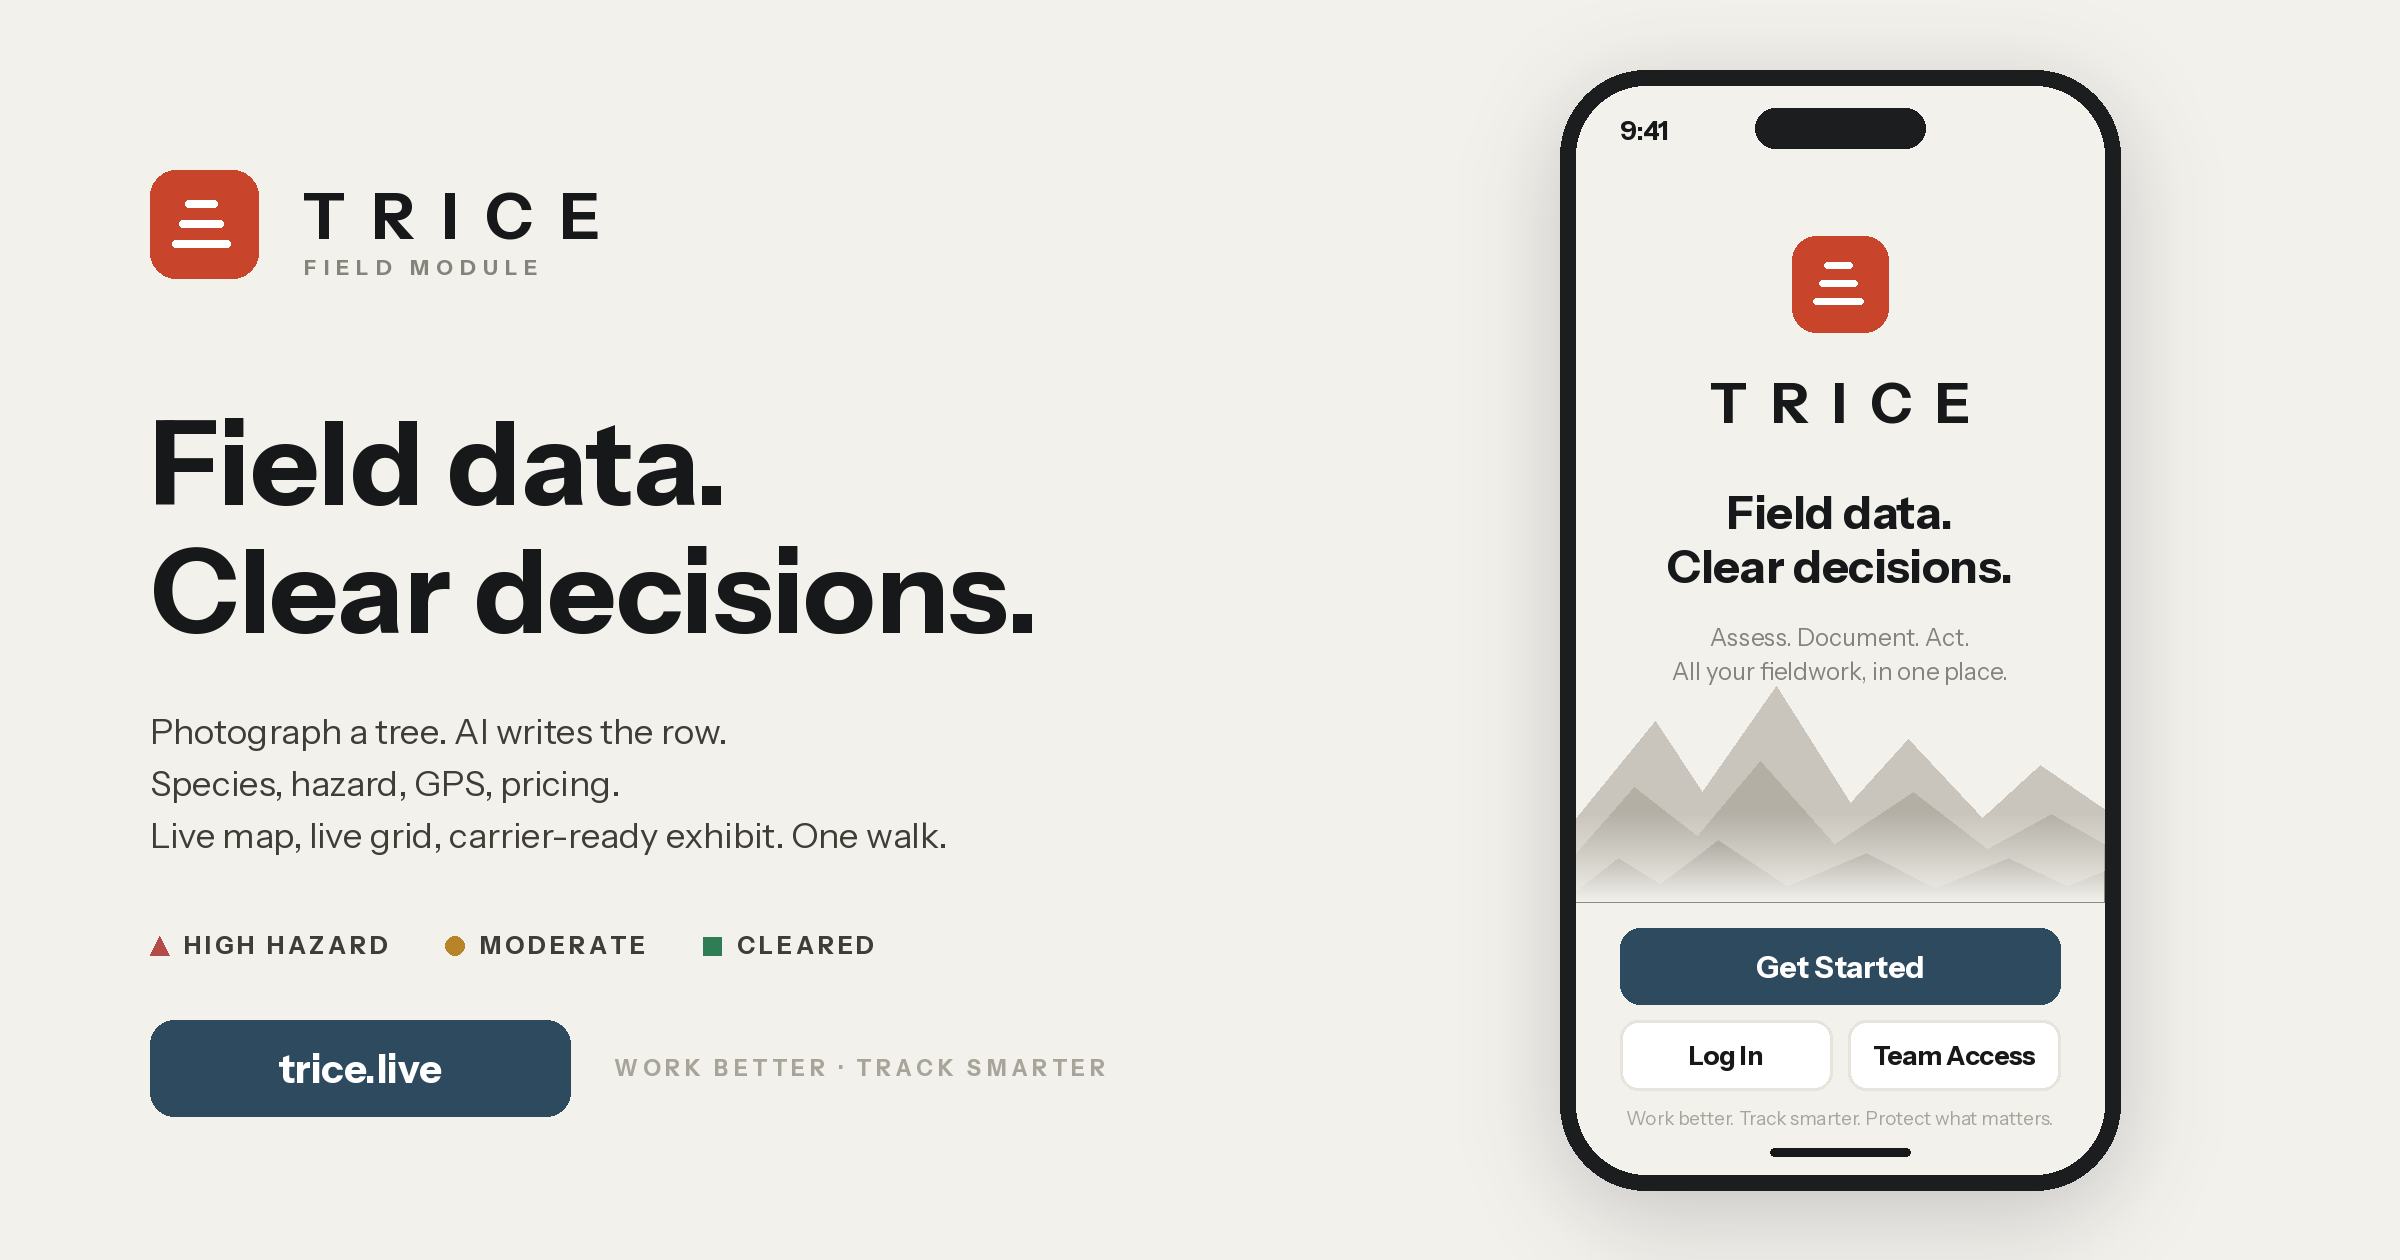
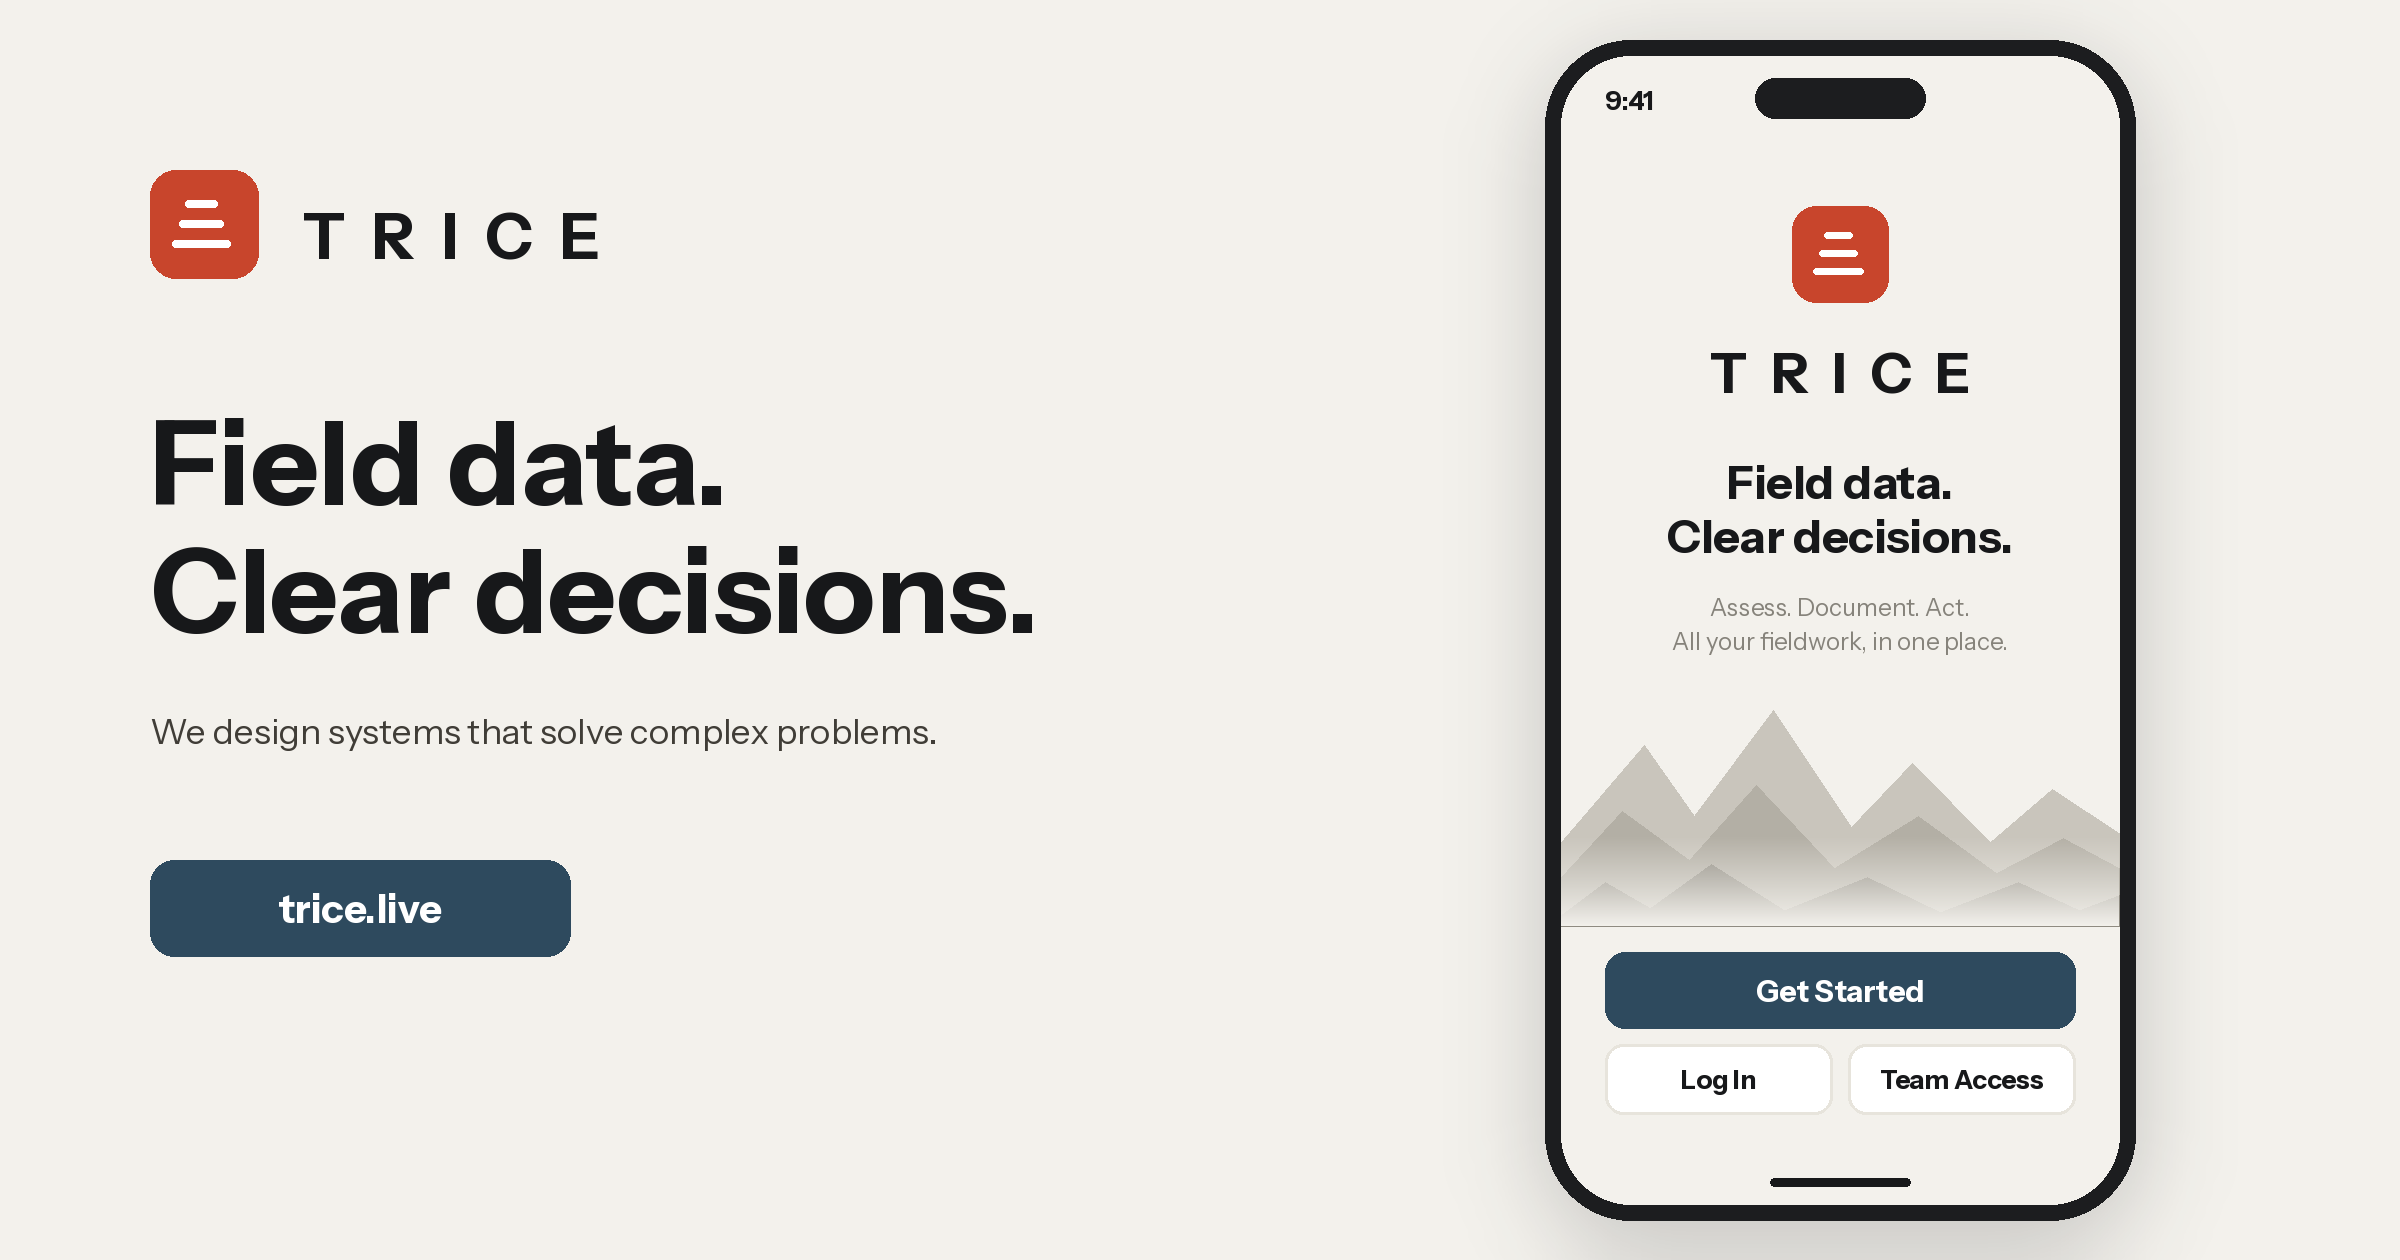
Add files via upload

diff --git a/index.html b/index.html
@@ -8,17 +8,17 @@
 <meta name="apple-mobile-web-app-capable" content="yes">
 <meta name="apple-mobile-web-app-status-bar-style" content="default">
 <meta name="apple-mobile-web-app-title" content="Trice">
-<meta name="version" content="trice-v22.6">
-<meta property="og:title" content="Trice — field data. Clear decisions.">
-<meta property="og:description" content="Photograph a tree. AI writes the row. Species, hazard, GPS, pricing. Live map, live grid, and a carrier-ready exhibit from one walk.">
-<meta property="og:image" content="https://trice.live/og.png?v=23">
+<meta name="version" content="trice-v23.2">
+<meta property="og:title" content="Trice — Field data. Clear decisions.">
+<meta property="og:description" content="We design systems that solve complex problems.">
+<meta property="og:image" content="https://trice.live/og.png?v=27">
 <meta property="og:image:width" content="2400">
 <meta property="og:image:height" content="1260">
 <meta property="og:url" content="https://trice.live/">
 <meta property="og:type" content="website">
 <meta name="twitter:card" content="summary_large_image">
-<meta name="twitter:image" content="https://trice.live/og.png?v=23">
-<meta name="description" content="AI tree assessment with GPS photo proof — every tree, on the record.">
+<meta name="twitter:image" content="https://trice.live/og.png?v=27">
+<meta name="description" content="We design systems that solve complex problems.">
 <title>Trice · Tree survey</title>
 <link rel="stylesheet" href="https://cdnjs.cloudflare.com/ajax/libs/leaflet/1.9.4/leaflet.min.css">
 <script src="https://cdnjs.cloudflare.com/ajax/libs/leaflet/1.9.4/leaflet.min.js"></script>
@@ -115,7 +115,7 @@ body{overflow-x:hidden}
 .shutter{width:74px;height:74px;border-radius:50%;border:4px solid #fff;background:rgba(255,255,255,.25);display:flex;align-items:center;justify-content:center;padding:0}
 .shutter span{width:56px;height:56px;border-radius:50%;background:#fff;display:block;transition:transform .1s}
 .shutter:active span{transform:scale(.86)}
-.camchip{background:rgba(11,14,18,.6);border-radius:999px;padding:6px 12px;font-size:11.5px;font-weight:600;display:inline-flex;align-items:center;gap:7px}
+.camchip{background:rgba(11,14,18,.6);color:#fff;border-radius:999px;padding:6px 12px;font-size:11.5px;font-weight:600;display:inline-flex;align-items:center;gap:7px}
 .camchip .liv{width:6px;height:6px;border-radius:50%;background:#7ee2a8;animation:adpulse 1.6s infinite}
 
 /* Map */
@@ -2393,11 +2393,7 @@ function backFromEdit() {
   if (S.editFrom === 'sheet') {
     S.editFrom = null; S.detailId = null; S.tab = 'sheet';
     try { localStorage.setItem('trice_tab', 'sheet'); } catch (e) {}
-    render();
-    setTimeout(() => {
-      const g = document.getElementById('gridScroll'); if (g) g.scrollTop = S.gridScrollY || 0;
-      const tw = document.getElementById('gridTableScroll'); if (tw) { tw.scrollTop = S.gridTableY || 0; tw.scrollLeft = S.gridTableX || 0; }
-    }, 30);
+    render(); /* render() itself restores the stored grid scroll */
     return;
   }
   render();
@@ -3822,7 +3818,7 @@ function reportView() {
     <div class="field" style="margin-top:10px"><label>Adjuster / consultant on the loss <span style="text-transform:none;letter-spacing:0;color:var(--faint)">(drives the conflict check)</span></label><input id="setAdjuster" value="${esc(j.adjuster||'')}"></div>
     <button class="btn dark" style="margin-top:12px" onclick="saveSettings()">Save header</button>
   </div>` : ''}
-  <div style="margin-top:16px;font-size:11px;color:var(--faint);line-height:1.55;text-align:center;padding:0 8px">Assessment performed by visual inspection from the ground, to ANSI A300 and Z133. AI-assisted; estimates support — but do not replace — the judgement of a qualified arborist. Not legal, tax or insurance advice. · v22.6</div>`;
+  <div style="margin-top:16px;font-size:11px;color:var(--faint);line-height:1.55;text-align:center;padding:0 8px">Assessment performed by visual inspection from the ground, to ANSI A300 and Z133. AI-assisted; estimates support — but do not replace — the judgement of a qualified arborist. Not legal, tax or insurance advice. · v23.2</div>`;
 }
 function saveSettings() {
   const g = id => (document.getElementById(id) || {}).value || '';
@@ -4510,7 +4506,7 @@ function render() {
   app.innerHTML = `
     <div class="hdr">
       <button onclick="goHome()" aria-label="Trice — start screen" style="border:0;background:none;padding:0;display:flex;align-items:center;gap:11px;text-align:left;color:var(--ink)"><div class="logo"><span></span><span></span><span></span></div>
-      <div><div class="t1">Trice</div><div class="t2">WTR Field Module · v22.6</div></div></button>
+      <div><div class="t1">Trice</div><div class="t2">WTR Field Module · v23.2</div></div></button>
       ${IS_DESKTOP() ? `<button onclick="toggleAdmin()" style="flex:none;border:1px solid ${S.admin ? 'var(--accent)' : 'var(--line)'};background:${S.admin ? 'var(--accent)' : '#fff'};color:${S.admin ? '#fff' : 'var(--muted)'};border-radius:999px;padding:7px 14px;font-size:11px;font-weight:700;margin-right:10px">${S.admin ? 'Admin ✓' : 'Admin'}</button>` : ''}
       <div class="site">${S.site ? `<div class="s1">${esc(S.site)}</div><div class="s2">${(S.job && S.job.propCode) ? esc(S.job.propCode) + ' · ' : ''}${S.trees.filter(t => siteOfT(t) === S.site).length} assets</div>` : `<div class="s1" style="color:var(--muted)">No project joined</div><div class="s2">Join one on Survey</div>`}<button id="syncTop" onclick="manualSync()" style="display:block;margin-left:auto;margin-top:3px;border:0;background:none;padding:2px 0;font-size:10px;font-weight:700;letter-spacing:.04em;cursor:pointer;text-align:right"></button></div>
     </div>
@@ -4526,6 +4522,15 @@ function render() {
     ${S.projectId ? projectSheet(S.projectId) : ''}
     ${S.backups ? backupsSheet() : ''}
     ${S.showPicker ? projectPicker() : ''}`;
+  if (S.tab === 'sheet') {
+    /* The grid always reopens exactly where it was scrolled — across edits, nav
+       round-trips, and background sync re-renders. Positions live in S and are
+       tracked continuously, then re-applied right after every render. */
+    const g = document.getElementById('gridScroll');
+    if (g) { g.scrollTop = S.gridScrollY || 0; g.onscroll = () => { S.gridScrollY = g.scrollTop; }; }
+    const tw = document.getElementById('gridTableScroll');
+    if (tw) { tw.scrollTop = S.gridTableY || 0; tw.scrollLeft = S.gridTableX || 0; tw.onscroll = () => { S.gridTableY = tw.scrollTop; S.gridTableX = tw.scrollLeft; }; }
+  }
   if (S.tab === 'map' && !S.zoomSrc) requestAnimationFrame(mountMap);
 }
 const IS_DESKTOP = () => window.matchMedia && window.matchMedia('(min-width: 900px)').matches;
@@ -4539,7 +4544,7 @@ function fabCapture() {
   S.detailId = null; S.editId = null; openCamera();
 }
 function goHome() { S.tab = 'survey'; S.detailId = null; S.editId = null; S.zoomSrc = null; S.showCheck = false; try { localStorage.setItem('trice_tab', 'survey'); } catch (e) {} render(); const v = document.querySelector('.view'); if (v) v.scrollTop = 0; }
-function go(tab) { S.tab = tab; S.sheetSummary = false; S.gridFull = false; try { localStorage.setItem('trice_tab', tab); } catch (e) {} if (tab === 'report') loadWeather(); if (tab !== 'trees') { S.detailId = null; S.editId = null; } S.zoomSrc = null; render(); const v = document.querySelector('.view'); if (v) v.scrollTop = 0; }
+function go(tab) { if (S.tab === 'sheet' && tab !== 'sheet') { const g = document.getElementById('gridScroll'); if (g) S.gridScrollY = g.scrollTop; const tw = document.getElementById('gridTableScroll'); if (tw) { S.gridTableY = tw.scrollTop; S.gridTableX = tw.scrollLeft; } } S.tab = tab; S.sheetSummary = false; S.gridFull = false; try { localStorage.setItem('trice_tab', tab); } catch (e) {} if (tab === 'report') loadWeather(); if (tab !== 'trees') { S.detailId = null; S.editId = null; } S.zoomSrc = null; render(); const v = document.querySelector('.view'); if (v) v.scrollTop = 0; }
 
 /* ---- Always the newest build ----
    index.html is served no-cache and the service worker is network-first, but this is the

diff --git a/sw.js b/sw.js
@@ -1,5 +1,5 @@
 /* Trice offline shell — after one online visit, the app loads with no signal. */
-const CACHE = 'trice-shell-v38';
+const CACHE = 'trice-shell-v44';
 const CORE = ['/', '/index.html', '/manifest.webmanifest', '/icon-192.png', '/icon-512.png'];
 
 self.addEventListener('install', (e) => {

diff --git a/README-DEPLOY.md b/README-DEPLOY.md
@@ -60,3 +60,21 @@ build, the device pushes unsynced records, purges its caches, and reloads.
 For this to trigger, the `<meta name="version">` in index.html must change on
 every release (the delivered zips always bump it). Records, drafts, projects
 and the team password live in IndexedDB/localStorage and are never touched.
+
+
+## v23.1 release notes (17 Aug 2026)
+This release changes BOTH index.html and netlify/functions/sync.mjs.
+Commit the whole folder to FreddyRobotLives/trice and let Netlify build.
+Never drag-and-drop — it silently discards the functions folder.
+
+One-time setup after first deploy of the intake form (v21.5+):
+Netlify > site > Forms > "trice-intake" > Form notifications >
+Add notification > Email > stelcomm@protonmail.com.
+
+Sync function is now v12.1 (subcontractors map). Devices refuse to clear
+queued subcontractor edits until the server confirms 12.1 — if the Team >
+Subcontractors edits seem to re-send, the function has not redeployed yet.
+
+Share image: og.png replaced; og:image is cache-busted (?v=27). After
+deploy, run Facebook Sharing Debugger "Scrape Again" and LinkedIn Post
+Inspector once on https://trice.live so cached previews refresh.
